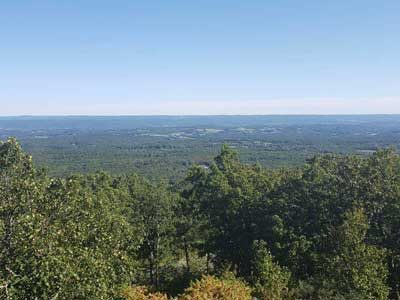
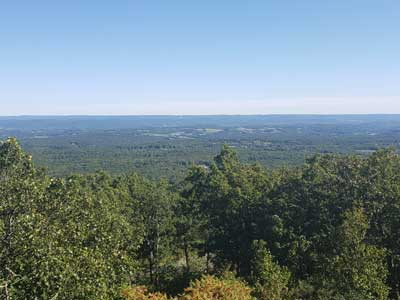
updated NJ High Point

diff --git a/Regions/Northeast/NewJersey/highPointSP.html b/Regions/Northeast/NewJersey/highPointSP.html
@@ -192,17 +192,19 @@
       </div>
     </div>
     <div class="article-grid">
-        <figure><img class="deco-img portrait" src="../../../resources/images/newJersey/high-point/high-point-sp-tower-full-1000.jpg" alt="High Point State Tower Full" />
+        <figure><img class="deco-img portrait" src="../../../resources/images/newJersey/high-point/high-point-sp-tower-full-1000.jpg" width="1000" height="750" alt="High Point State Tower Full" />
           <figcaption class="cap">View of Monument from Parking Lot</figcaption></figure>
-      <figure><img class="deco-img portrait" src="../../../resources/images/newJersey/high-point/high-point-sp-tower-1000.jpg" alt="High Point State Tower" />
+      <figure><img class="deco-img portrait" src="../../../resources/images/newJersey/high-point/high-point-sp-tower-1000.jpg" width="1000" height="750" alt="High Point State Tower" />
         <figcaption class="cap">Close Up View of Monument Tower</figcaption></figure>
         <figure><picture>
-          <source media="(max-width: 799px)" srcset="../../../resources/images/newJersey/high-point/high-point-sp-summit-view-400.jpg">
-          <source media="(min-width: 800px)" srcset="../../../resources/images/newJersey/high-point/high-point-sp-summit-view-1000.jpg">
-          <img class="deco-img" src="../../../resources/images/newJersey/high-point/high-point-sp-summit-view-1000.jpg" alt="High Point State Summit View">
+          <source media="(max-width: 799px)" srcset="../../../resources/images/newJersey/high-point/high-point-sp-summit-view-200.jpg,
+          ../../../resources/images/newJersey/high-point/high-point-sp-summit-view-400.jpg 2x">
+          <source media="(min-width: 800px)" srcset="../../../resources/images/newJersey/high-point/high-point-sp-summit-view-500.jpg,
+          ../../../resources/images/newJersey/high-point/high-point-sp-summit-view-1000.jpg 2x">
+          <img class="deco-img" src="../../../resources/images/newJersey/high-point/high-point-sp-summit-view-500.jpg" width="500" height="375" alt="High Point State Summit View">
         </picture>
             <figcaption class="cap">Surrounding View from the Summit</figcaption></figure>
-            
+           
            </div>
            
       <!-- main -->
